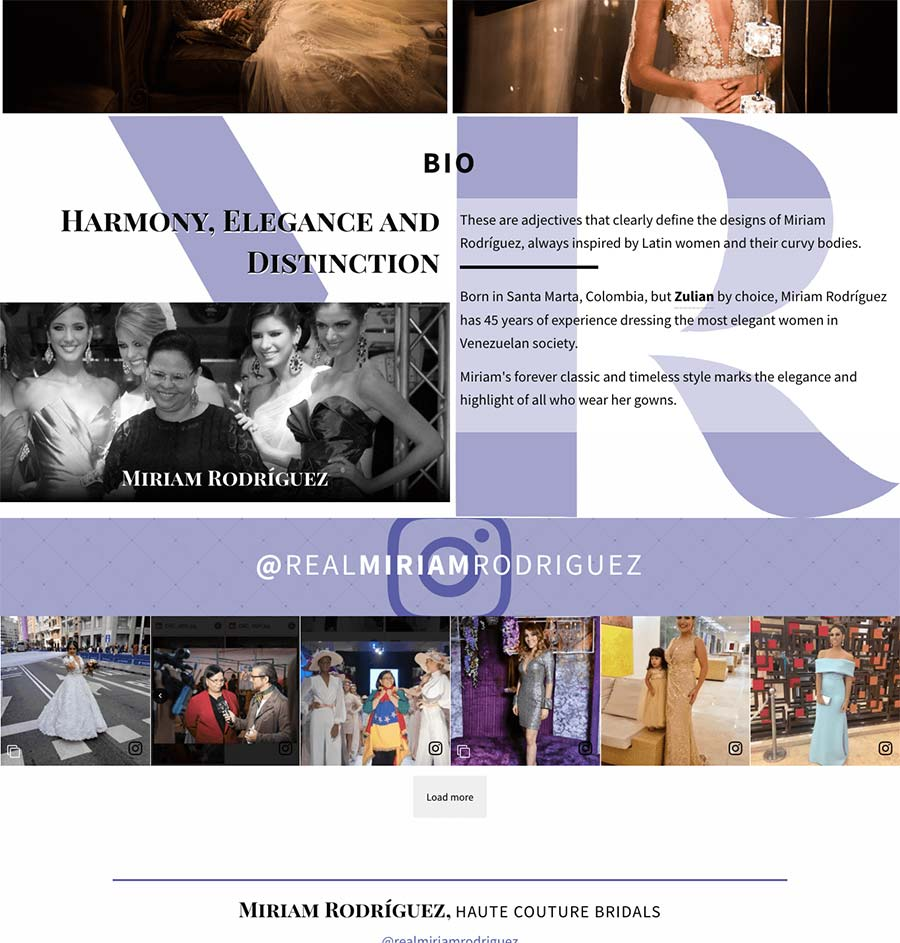
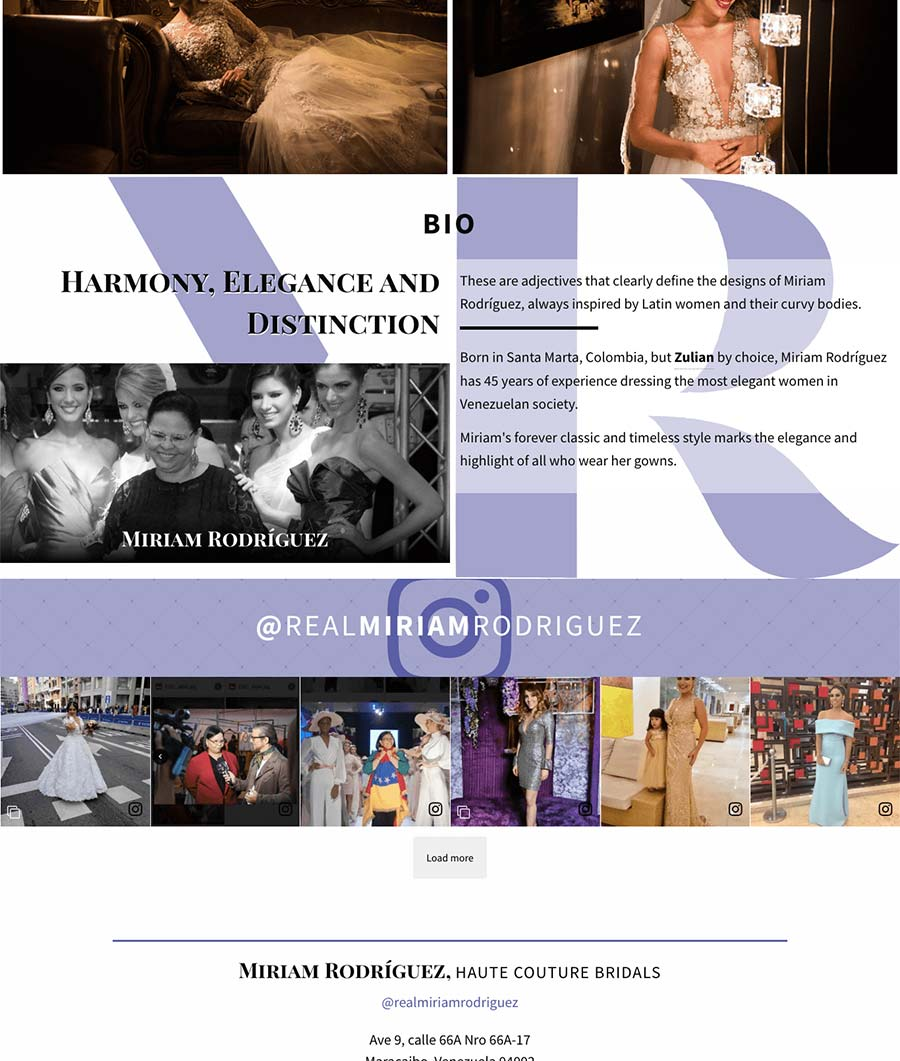
Edits

diff --git a/css/app.css b/css/app.css
@@ -8469,16 +8469,13 @@ form#index-contact-form span.input-group-label.error {
   .projectBanner#miriam-rodriguez .img-wrap img {
     box-shadow: 0 17px 17px 0 rgba(0, 0, 0, 0.15), 0 17px 17px 0 rgba(0, 0, 0, 0.15), 0 27px 55px 0 rgba(0, 0, 0, 0.3), 0 27px 55px 0 rgba(0, 0, 0, 0.3);
     max-width: 475px; }
-  .projectBanner#miriam-rodriguez img.bg-screenshot {
+  .projectBanner#miriam-rodriguez .bg-screenshot {
     position: absolute;
     box-shadow: 0 1.0625rem 1.0625rem 0 rgba(0, 0, 0, 0.15), 0 1.6875rem 3.4375rem 0 rgba(0, 0, 0, 0.3);
     top: 0;
+    right: 0;
     z-index: -1; }
-    @media print, screen and (min-width: 40em) {
-      .projectBanner#miriam-rodriguez img.bg-screenshot {
-        width: 490px;
-        top: -575px;
-        right: 0; } }
+
 #index #mobileNavBar-wrapper {
   position: absolute;
   right: 0;

diff --git a/scss/pages/index/_projectBanner-miriam-rodriguez.scss b/scss/pages/index/_projectBanner-miriam-rodriguez.scss
@@ -67,16 +67,26 @@
 		}
 	}
 
-	img.bg-screenshot {
+	.bg-screenshot {
 		position: absolute;
 		box-shadow: $z-5;
 		top: 0;
+		right: 0;
 		z-index: -1;
-
-		@include breakpoint(medium) {
-			width: 490px;
-			top: -575px;
-			right: 0;
-		}
+		// user-select: none;
+		// pointer-events: none;
 	}
+
+	// img.bg-screenshot {
+	// 	position: absolute;
+	// 	box-shadow: $z-5;
+	// 	top: 0;
+	// 	z-index: -1;
+
+	// 	@include breakpoint(medium) {
+	// 		width: 490px;
+	// 		top: -575px;
+	// 		right: 0;
+	// 	}
+	// }
 }

diff --git a/src/pages/project-banners.php b/src/pages/project-banners.php
@@ -30,7 +30,11 @@ body-class: index bodyLayout-unique
 				</div>
 			</div>
 		</div>
-		<img class="bg-screenshot" style="user-select: none;pointer-events: none;" src="/img/projects/miriam-rodriguez/miriam-rodriguez.png" alt="">
+		<!-- <img class="bg-screenshot" style="user-select: none;pointer-events: none;" src="/img/projects/miriam-rodriguez/miriam-rodriguez.png" alt=""> -->
+		<picture class="show-for-medium bg-screenshot">
+			<source srcset="/img/projects/miriam-rodriguez/index/projectBanner/secondary/miriam-rodriguez.webp, img/projects/miriam-rodriguez/index/projectBanner/secondary/miriam-rodriguez_2x.webp 2x" type="image/webp">
+			<img srcset="/img/projects/miriam-rodriguez/index/projectBanner/secondary/miriam-rodriguez_2x.jpg 2x" src="/img/projects/miriam-rodriguez/index/projectBanner/secondary/miriam-rodriguez.jpg" alt="Screenshot of houstonpals.com">
+		</picture>
 	</div>
 </section>
 
